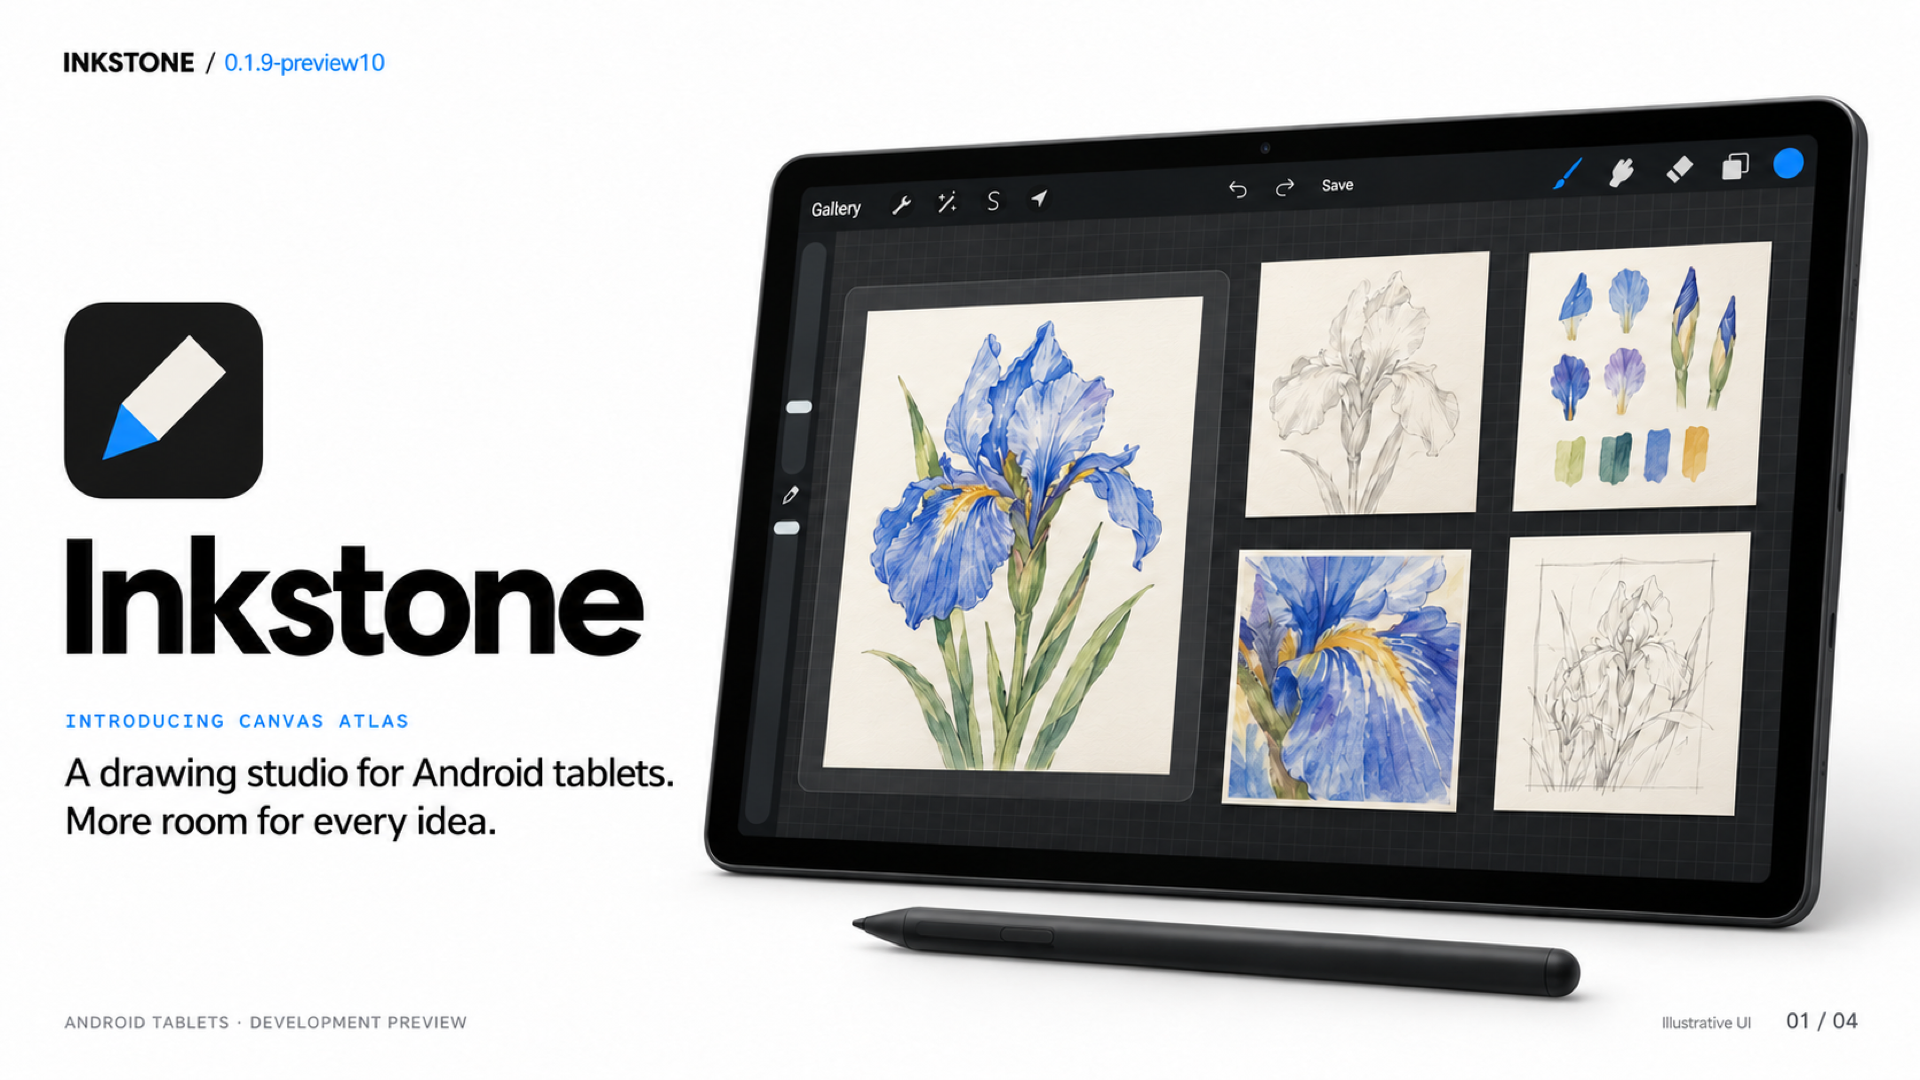
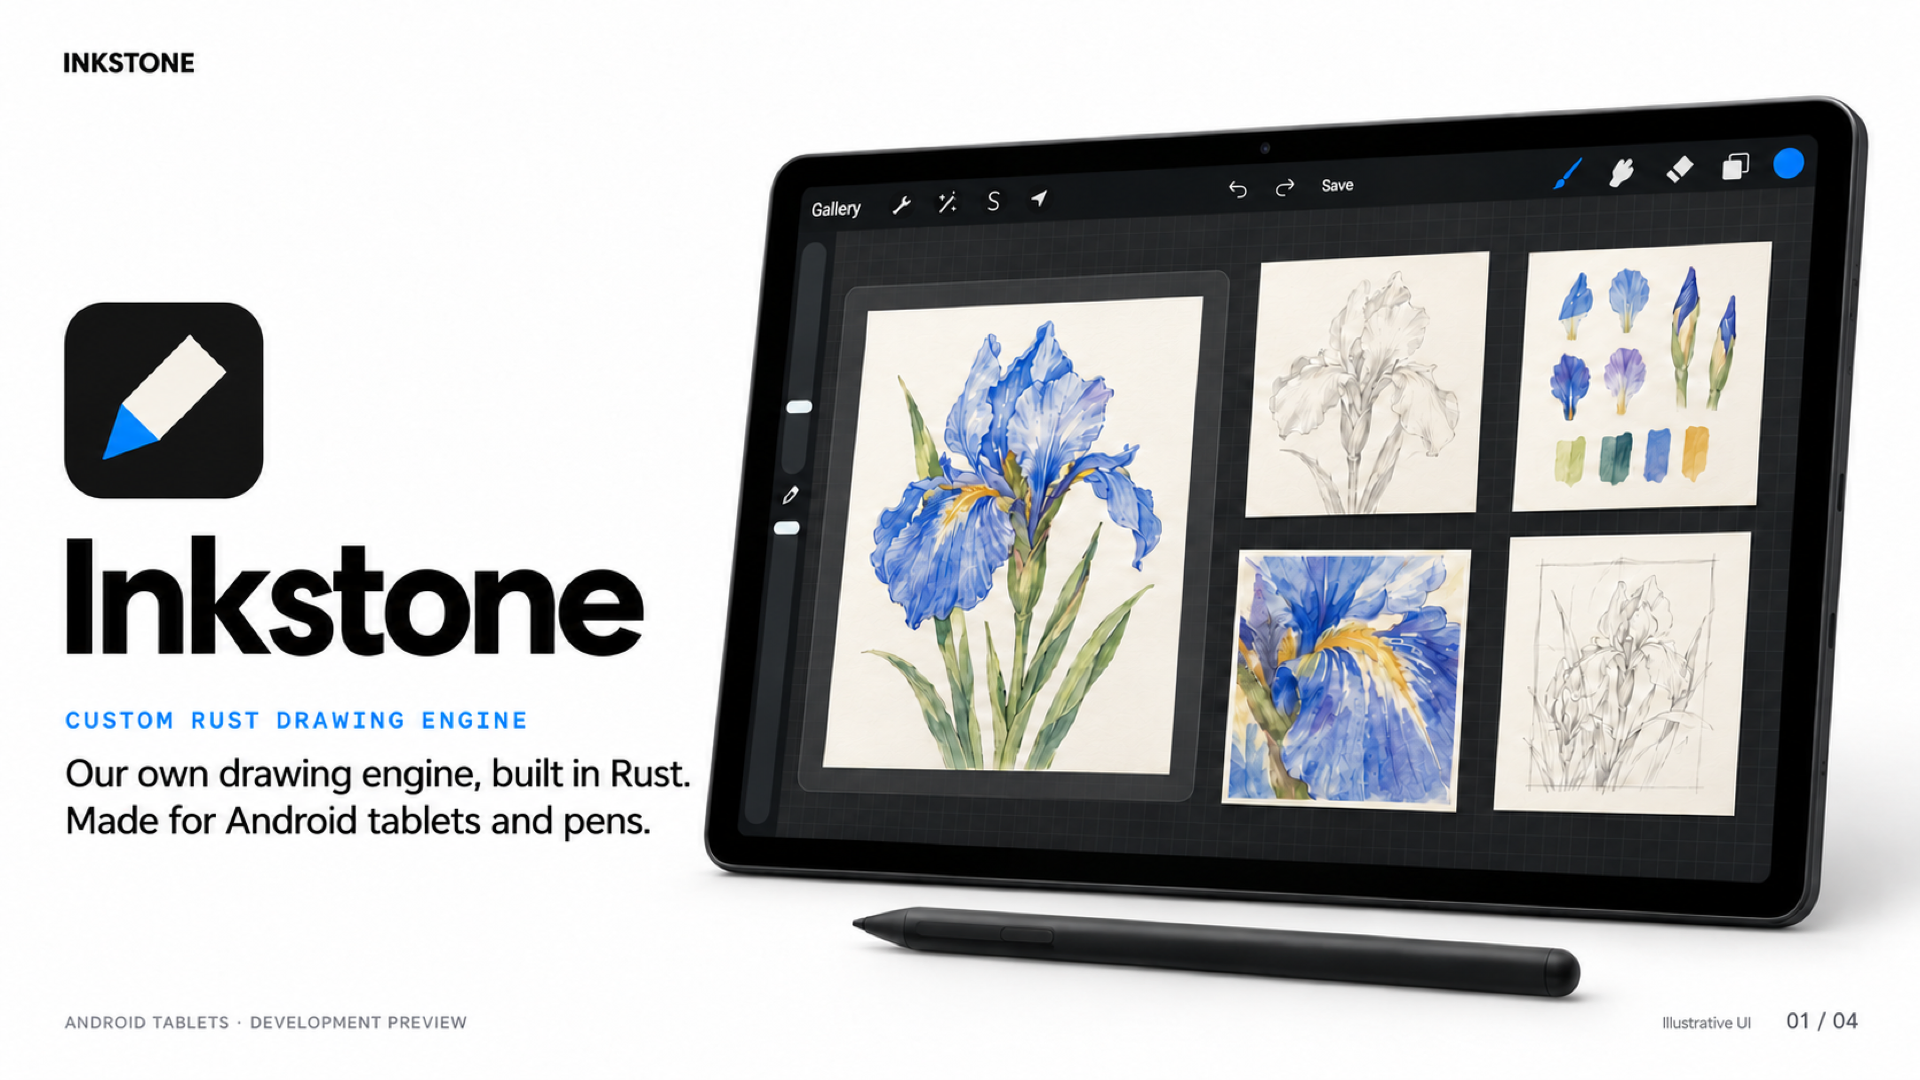
Highlight Inkstone Rust drawing engine in version-free cover [skip ci]

diff --git a/README.md b/README.md
@@ -1,10 +1,10 @@
 # Inkstone — Drawing for Android
 
-Inkstone is a source-available drawing app for Android tablets and pressure-sensitive pens, built with a native Kotlin interface and a Rust drawing engine.
+Inkstone is a source-available drawing app for Android tablets and pressure-sensitive pens, built with a native Kotlin interface and its own drawing engine written in Rust.
 
 **Early development:** features are incomplete, bugs are expected, and more improvements are on the way. Vector mode is experimental. Keep exported backups of important artwork and share device feedback through [Issues](https://github.com/bramastahartono20/inkstone/issues).
 
-![Inkstone — a drawing studio for Android tablets](artifacts/promotion/01-main.png)
+![Inkstone — custom drawing engine built in Rust](artifacts/promotion/01-main.png)
 
 **0.1.9-preview12 early-development release:** fixes Background colour selection and replaces its platform menu with a shared editor picker in Raster/Vector. Light interface now covers toolbars, panels, brush previews, sliders, gallery and canvas creation. Retains Canvas Atlas, integrated Multicolor controls, group appearance and personal brush libraries from preview11. See [release instructions and limits](docs/LOCAL_PREVIEW_019_12.md).
 
@@ -24,7 +24,7 @@ The preview uses package `art.inkstone.preview`. Install over an existing previe
 
 ![Multicolor brushes — make color your own](artifacts/promotion/04-multicolor-brushes.png)
 
-*Promotional illustrations created for preview10, using the Raster editor layout. The current downloadable build is preview12; artwork and UI details in these illustrations are illustrative.*
+*Promotional illustrations using the Raster editor layout. The cover highlights Inkstone’s own Rust drawing engine without a version label. The feature images were prepared for preview10; the current downloadable build is preview12. Artwork and UI details are illustrative.*
 
 ## What you can try
 
